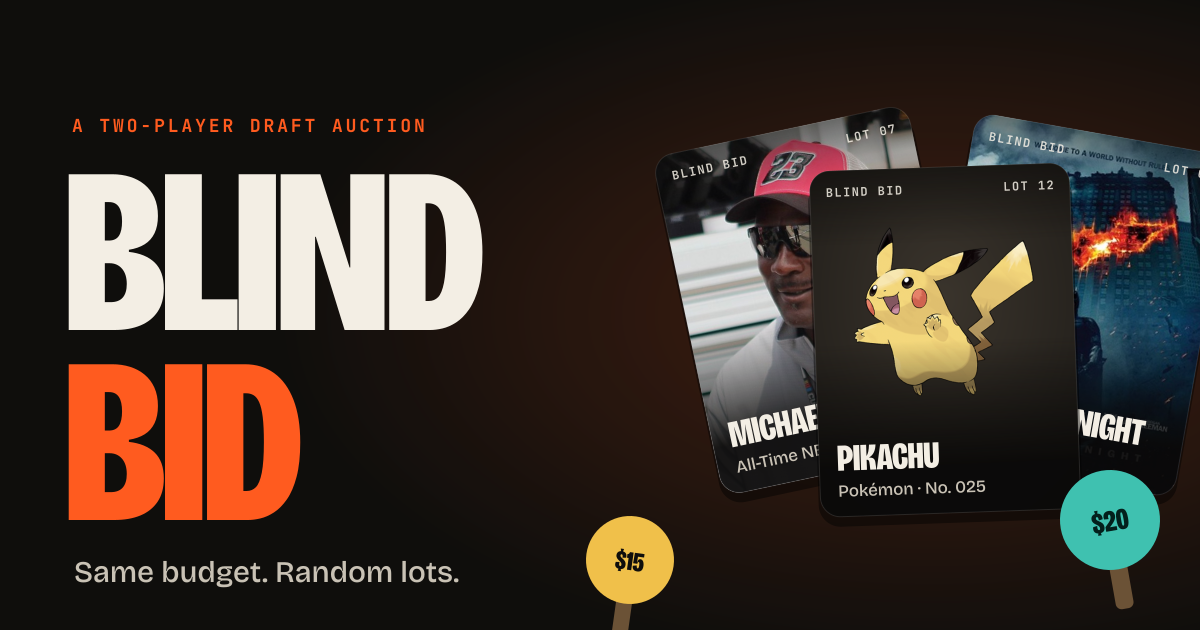
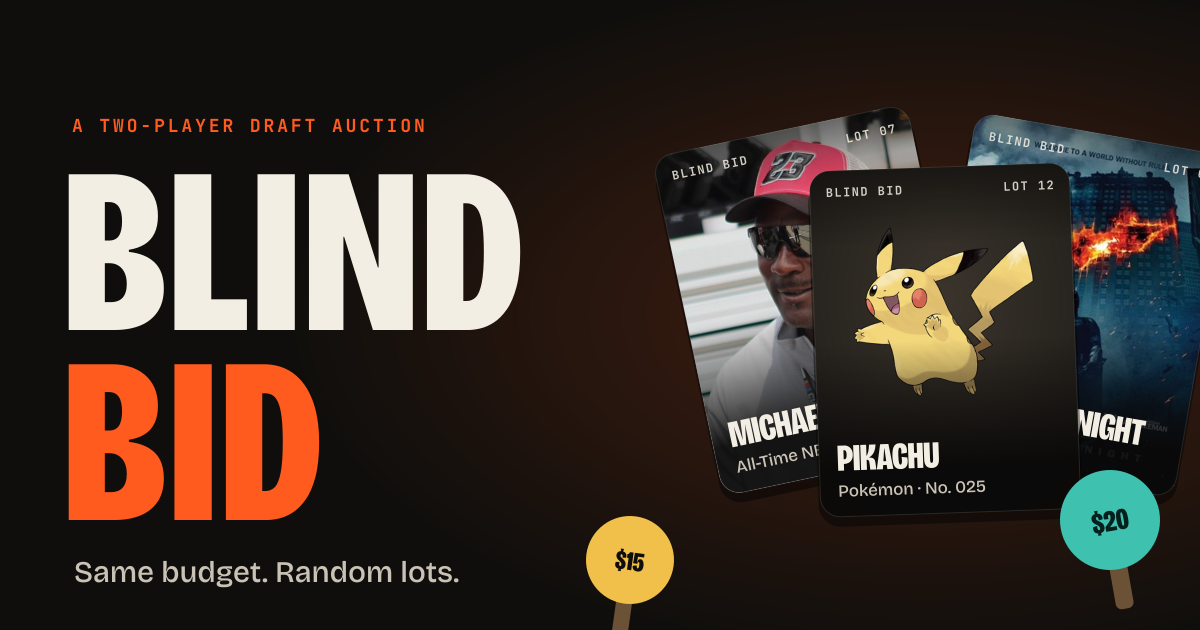
Agreed passes with a 3-per-game limit; loosen wordmark spacing
A pass now proposes tossing the lot; it only goes away when the other
player agrees. Each game allows 3 tossed lots, after which someone has
to bid or pay the other to take it.

Changed region(s): [[0.1233, 0.2714, 0.4317, 0.5429], [0.1233, 0.573, 0.2775, 0.8444]]

diff --git a/src/ui/Game.tsx b/src/ui/Game.tsx
@@ -1,6 +1,6 @@
 import { useEffect, useMemo, useRef, useState } from 'react'
 import { getCategory } from '../data/index.ts'
-import { options, other, type GameState, type Outcome, type Player, type Seat } from '../game/engine.ts'
+import { options, other, PASS_LIMIT, tossesLeft, type GameState, type Outcome, type Player, type Seat } from '../game/engine.ts'
 import type { Room } from '../net/useRoom.ts'
 import { LotCard, Thumb } from './LotCard.tsx'
 import { preload } from './images.ts'
@@ -116,7 +116,7 @@ function headline(g: GameState, seat: Seat): string {
     return `${nm(o.seat)} ${o.seat === seat ? 'got' : 'gets'} it for $${o.amount}`
   }
   if (r.high) return r.high.by === seat ? 'You’re winning' : `${g.players[r.high.by].name} is winning`
-  if (r.passes) return `${g.players[other(r.turn)].name} passed`
+  if (r.passes) return `${nm(other(r.turn))} ${other(r.turn) === seat ? 'want' : 'wants'} to pass`
   return 'Opening bid is $1'
 }
 
@@ -155,12 +155,13 @@ export function Game({ room }: { room: Room }) {
     if (myTurn) {
       if (opt.solo) return `${opp.name} is full — it’s just you now`
       if (r.high && r.high.by === them) return `${opp.name} bid $${r.high.amount}. Your call.`
-      if (r.passes === 1) return `${opp.name} passed. Your call.`
+      if (r.passes === 1) return opt.canPass ? `${opp.name} wants to pass. Agree?` : `${opp.name} passed. Someone has to take it.`
       return 'Your move'
     }
     return `Waiting on ${opp.name}`
-  }, [r, myTurn, opt.solo, opp.name, them])
+  }, [r, myTurn, opt.solo, opt.canPass, opp.name, them])
 
+  const passesLeft = tossesLeft(g)
   const highBy = r.high ? (r.high.by === seat ? 'you' : 'them') : 'none'
   const lotLabel = `Lot ${String(r.lot).padStart(2, '0')}`
 
@@ -175,7 +176,7 @@ export function Game({ room }: { room: Room }) {
           <div className="lotline">
             <span className="eyebrow">{cat?.name}</span>
             <span className="eyebrow mono">
-              {lotLabel} · {g.deck.length} left
+              {lotLabel} · {g.deck.length} left · {passesLeft}/{PASS_LIMIT} passes
             </span>
           </div>
           <div className="progress" style={{ marginTop: 8 }}>
@@ -253,6 +254,9 @@ export function Game({ room }: { room: Room }) {
                 </>
               )}
               {!opt.canBid && !opt.canFold && <div className="dump-note">You’re out of cash, so you can only pass on this one.</div>}
+              {opt.canBid && !opt.canPass && !r.high && !opt.solo && (
+                <div className="dump-note">{passesLeft === 0 ? 'All 3 passes are used up. Bid on it or pay them to take it.' : ''}</div>
+              )}
               <div className="two">
                 {opt.canFold && (
                   <button className="btn btn-ghost" onClick={() => room.act({ type: 'fold' })} style={{ gridColumn: opt.canDump ? undefined : '1 / -1' }}>
@@ -261,7 +265,7 @@ export function Game({ room }: { room: Room }) {
                 )}
                 {opt.canPass && (
                   <button className="btn btn-ghost" onClick={() => room.act({ type: 'pass' })} style={{ gridColumn: opt.canDump ? undefined : '1 / -1' }}>
-                    {opt.solo || r.passes === 1 ? 'Pass · toss it' : 'Pass'}
+                    {opt.solo ? 'Pass · toss it' : r.passes === 1 ? 'Agree to pass' : 'Pass'}
                   </button>
                 )}
                 {opt.canDump && (
@@ -277,7 +281,9 @@ export function Game({ room }: { room: Room }) {
             <div className="dump-note">
               {r.high?.by === seat
                 ? `You’re on $${r.high.amount}. ${opp.name} can raise, or let it go.`
-                : `${opp.name} can bid, pass, or pay you to take it.`}
+                : r.passes === 1 && passesLeft > 0
+                  ? `You want to pass. ${opp.name} has to agree, or bid instead.`
+                  : `${opp.name} can bid${passesLeft > 0 ? ', pass,' : ''} or pay you to take it.`}
             </div>
           )}
 

diff --git a/src/game/engine.ts b/src/game/engine.ts
@@ -61,8 +61,13 @@ export interface GameState {
   lot: number
   deckSize: number
   votes: (Seat | null)[]
+  tosses?: number // lots both players agreed to pass on
   rev: number
 }
+
+// Passing needs both players to agree, and a game only allows this many agreed passes.
+export const PASS_LIMIT = 3
+export const tossesLeft = (g: GameState) => PASS_LIMIT - (g.tosses ?? 0)
 
 export type Action =
   | { type: 'bid'; amount: number }
@@ -86,6 +91,7 @@ export function newGame(code: string, host: { id: string; name: string }): GameS
     lot: 0,
     deckSize: 0,
     votes: [null, null],
+    tosses: 0,
     rev: 0,
   }
 }
@@ -117,6 +123,7 @@ export function startGame(g: GameState): GameState {
     last: null,
     lot: 0,
     votes: [null, null],
+    tosses: 0,
     players: g.players.map((p) => ({ ...p, money: g.settings.budget, roster: [] })),
     round: null,
   }
@@ -171,7 +178,8 @@ function award(g: GameState, outcome: Outcome): GameState {
   } else {
     discard = [...discard, outcome.item]
   }
-  return { ...g, players, discard, last: outcome, round: g.round ? { ...g.round } : null }
+  const tosses = (g.tosses ?? 0) + (outcome.kind === 'passed' ? 1 : 0)
+  return { ...g, players, discard, tosses, last: outcome, round: g.round ? { ...g.round } : null }
 }
 
 export interface Options {
@@ -193,12 +201,21 @@ export function options(g: GameState, seat: Seat): Options {
   const them = other(seat)
   const solo = isFull(g, them)
   const minBid = (r.high?.amount ?? 0) + 1
+  const left = tossesLeft(g)
+  const canBid = me.money >= minBid
+  // Opening pass = a proposal; answering pass = agreeing to toss it. Once the limit is
+  // used up, only a broke player may pass, and that just hands the decision over.
+  let canPass = false
+  if (!r.high) {
+    if (solo || r.passes > 0) canPass = left > 0
+    else canPass = left > 0 || !canBid
+  }
   return {
-    canBid: me.money >= minBid,
+    canBid,
     minBid,
     maxBid: me.money,
     canFold: !!r.high && r.high.by === them,
-    canPass: !r.high,
+    canPass,
     canDump: !r.high && !solo && me.money >= 1,
     maxDump: me.money,
     solo,
@@ -247,9 +264,10 @@ export function apply(g: GameState, seat: Seat, action: Action): GameState {
       if (!opt.canPass) return g
       const passes = r.passes + 1
       if (opt.solo || passes >= 2) {
-        next = award({ ...g, round: { ...r, log: log(`${name} passed`) } }, { kind: 'passed', item: r.item })
+        next = award({ ...g, round: { ...r, log: log(opt.solo ? `${name} passed` : `${name} agreed to pass`) } }, { kind: 'passed', item: r.item })
       } else {
-        return { ...g, rev: g.rev + 1, round: { ...r, turn: them, passes, log: log(`${name} passed`) } }
+        const text = tossesLeft(g) > 0 ? `${name} wants to pass` : `${name} is out of cash and passed`
+        return { ...g, rev: g.rev + 1, round: { ...r, turn: them, passes, log: log(text) } }
       }
       break
     }
@@ -284,6 +302,7 @@ export function rematch(g: GameState): GameState {
     discard: [],
     lot: 0,
     votes: [null, null],
+    tosses: 0,
     players: g.players.map((p) => ({ ...p, money: g.settings.budget, roster: [] })),
     rev: g.rev + 1,
   }

diff --git a/scripts/make-art.ts b/scripts/make-art.ts
@@ -132,8 +132,8 @@ const c2 = await card('pokemon', 'Pikachu', 'Pokémon · No. 025', 'LOT 12', tru
 const c3 = await card('movies', 'The Dark Knight', 'All Movies', 'LOT 03')
 
 const eyebrow = text(mono, 'A TWO-PLAYER DRAFT AUCTION', 72, 132, 18, { tracking: 0.16 })
-const blind = text(display, 'BLIND', 64, 330, 236, { tracking: -0.02 })
-const bid = text(display, 'BID', 64, 520, 236, { tracking: -0.02 })
+const blind = text(display, 'BLIND', 64, 330, 236, { tracking: 0.02 })
+const bid = text(display, 'BID', 64, 520, 236, { tracking: 0.02 })
 const tag1 = text(body, 'Same budget. Random lots.', 74, 582, 30)
 const paddleQ = text(display, '$20', 0, 0, 30, { anchor: 'middle' })
 

diff --git a/src/ui/Home.tsx b/src/ui/Home.tsx
@@ -148,7 +148,7 @@ export function Home({ name, setName, onHost, onJoin, error, busy, initialCode }
             <span className="n">03</span>
             <span>
               <strong>Hate it? Pay them</strong>
-              Hand your opponent cash to take a lot off the table. Or both pass.
+              Hand your opponent cash to take a lot off the table. Or both agree to pass (3 per game).
             </span>
           </div>
           <div className="rule">

diff --git a/src/index.css b/src/index.css
@@ -278,7 +278,7 @@ button:disabled {
   line-height: 0.82;
   font-weight: 800;
   font-stretch: 75%;
-  letter-spacing: -0.02em;
+  letter-spacing: 0.02em;
   margin: 0 0 22px;
   text-transform: uppercase;
 }

diff --git a/README.md b/README.md
@@ -10,7 +10,7 @@ Players take turns. Who opens alternates every lot.
 
 - **Bid** – raise the high bid by at least $1.
 - **Let it go** – when they've outbid you, fold and they pay what they bid.
-- **Pass** – if nobody has bid yet. Two passes in a row tosses the lot.
+- **Pass** – if nobody has bid yet. The lot is only tossed if both players agree to pass, and each game allows 3 agreed passes.
 - **Pay them to take it** – hand your opponent some cash and the lot goes straight onto their roster.
 
 If you bid as much as your opponent has left, they can't answer and the lot is yours on the spot. Once one roster is full the other player picks up lots alone. When someone runs dry (or the deck runs out) any empty slots are filled with random leftovers.
